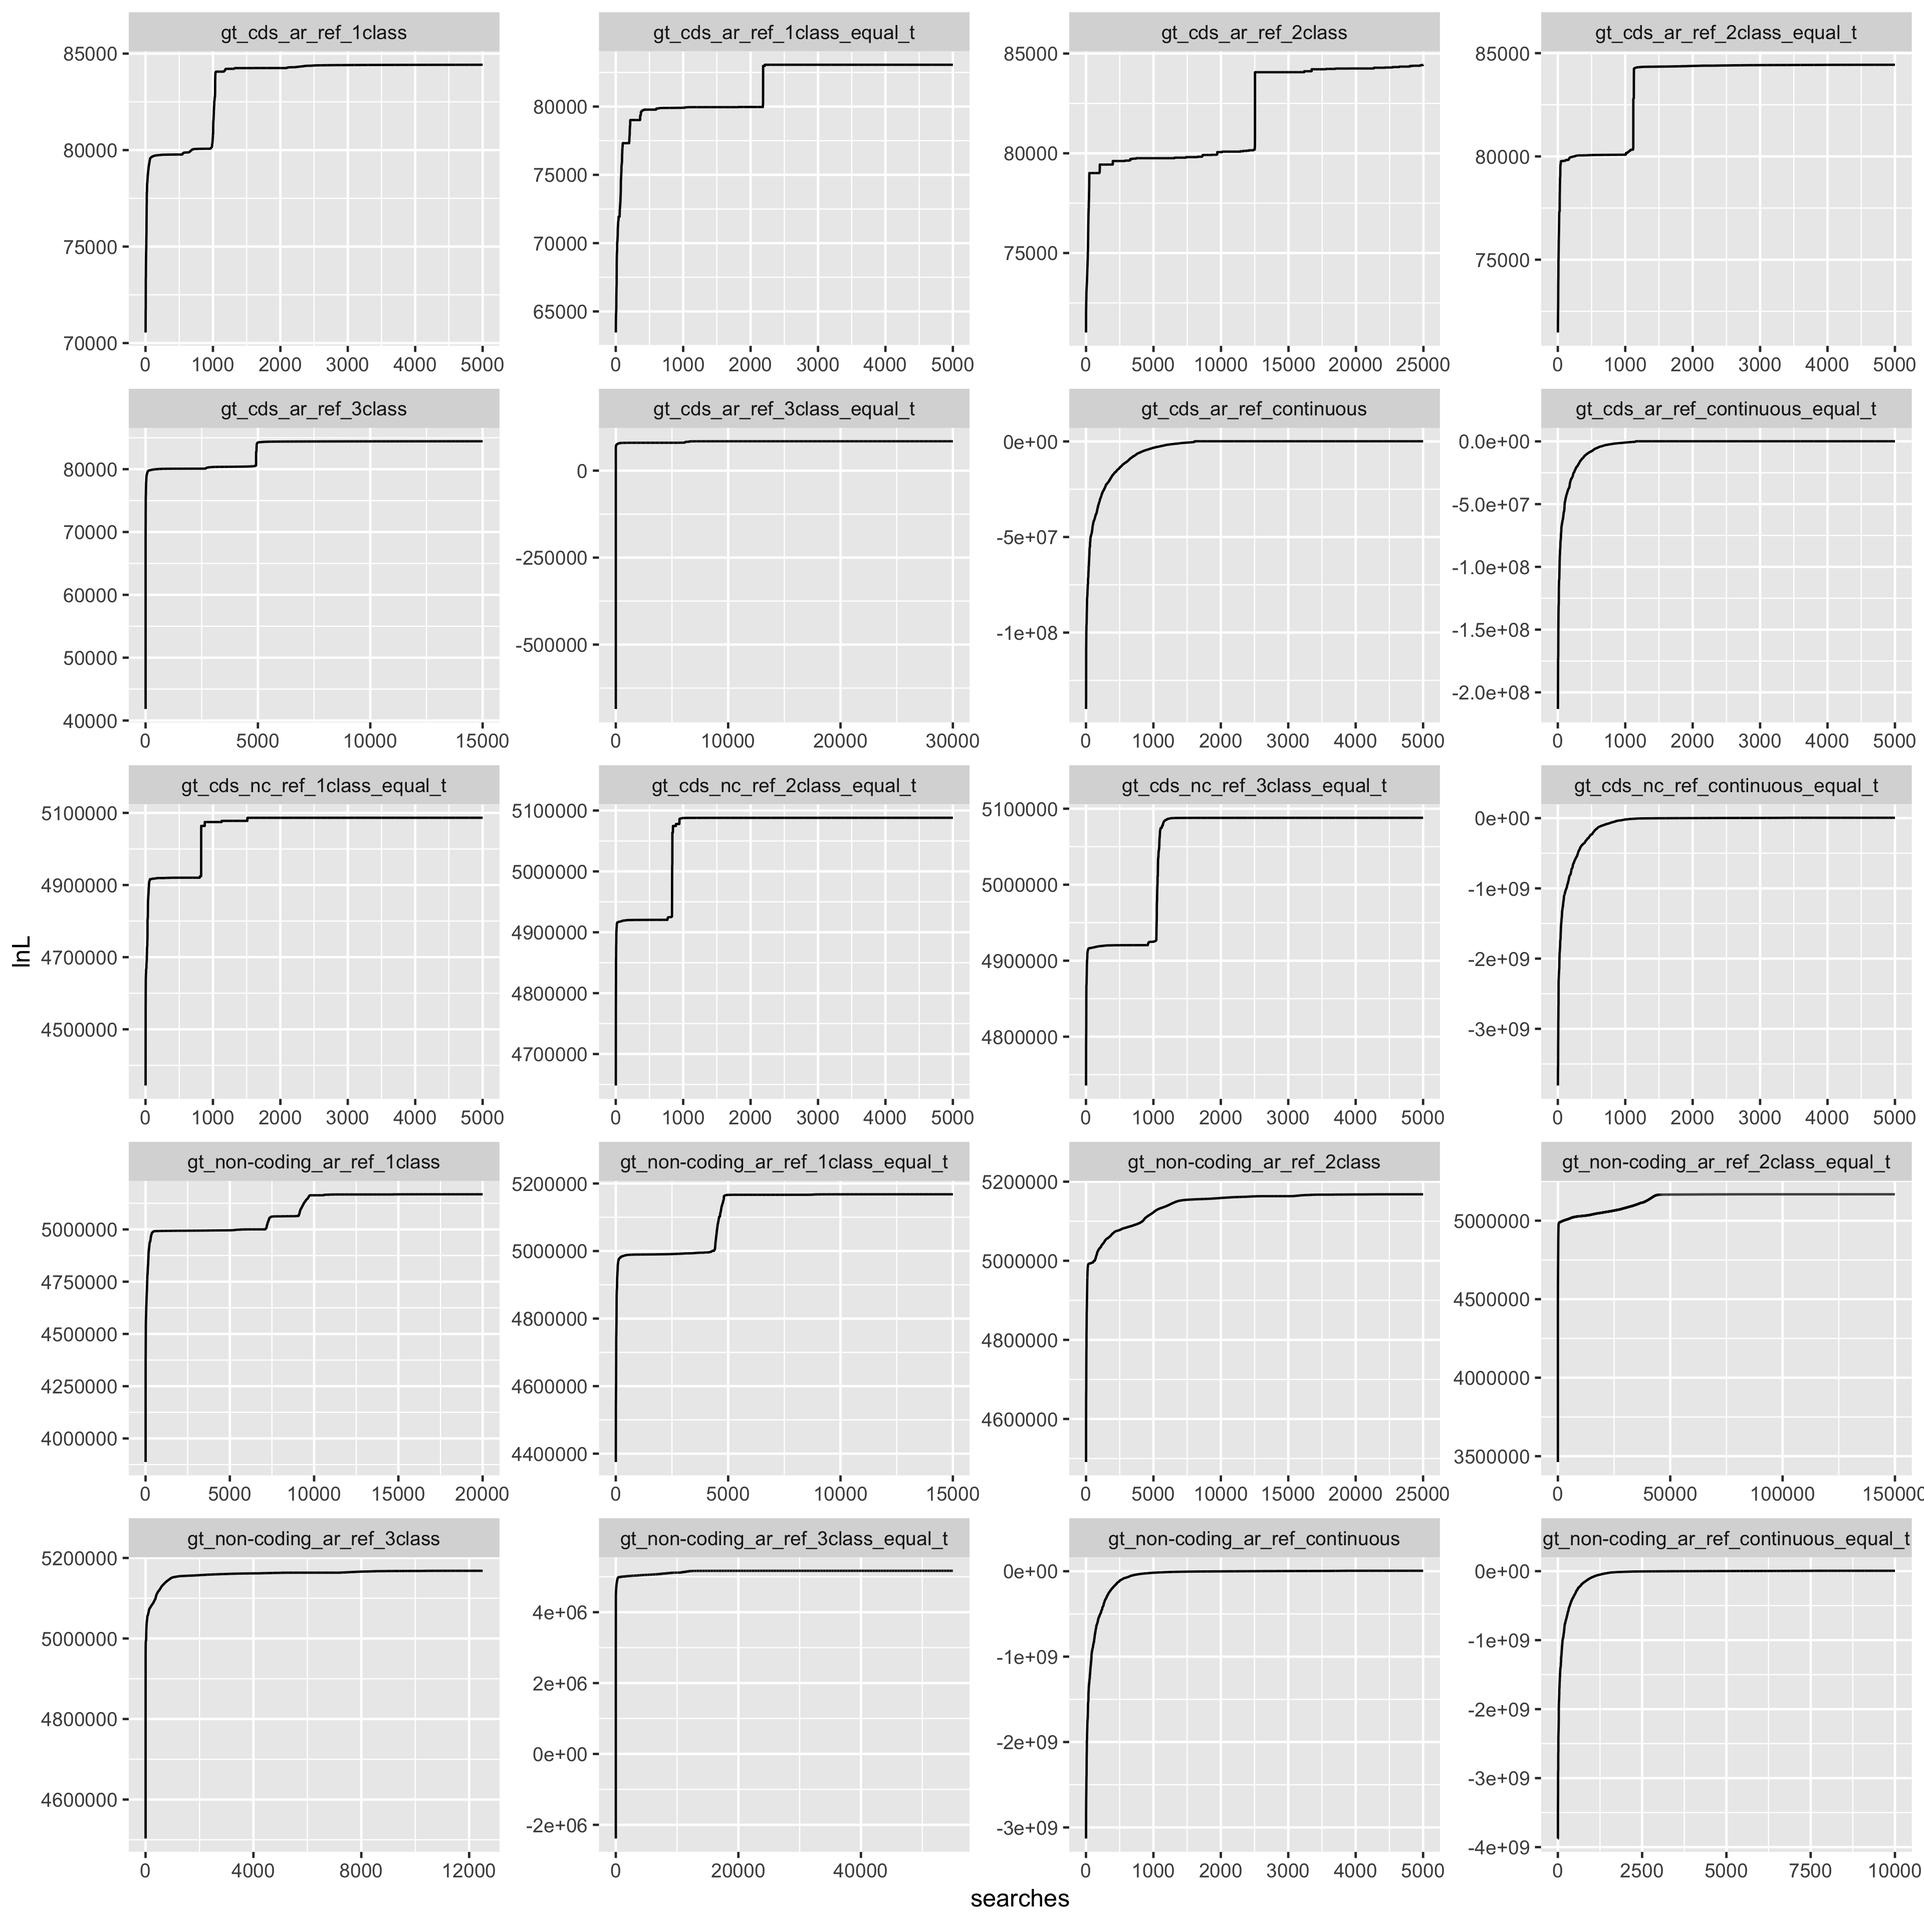
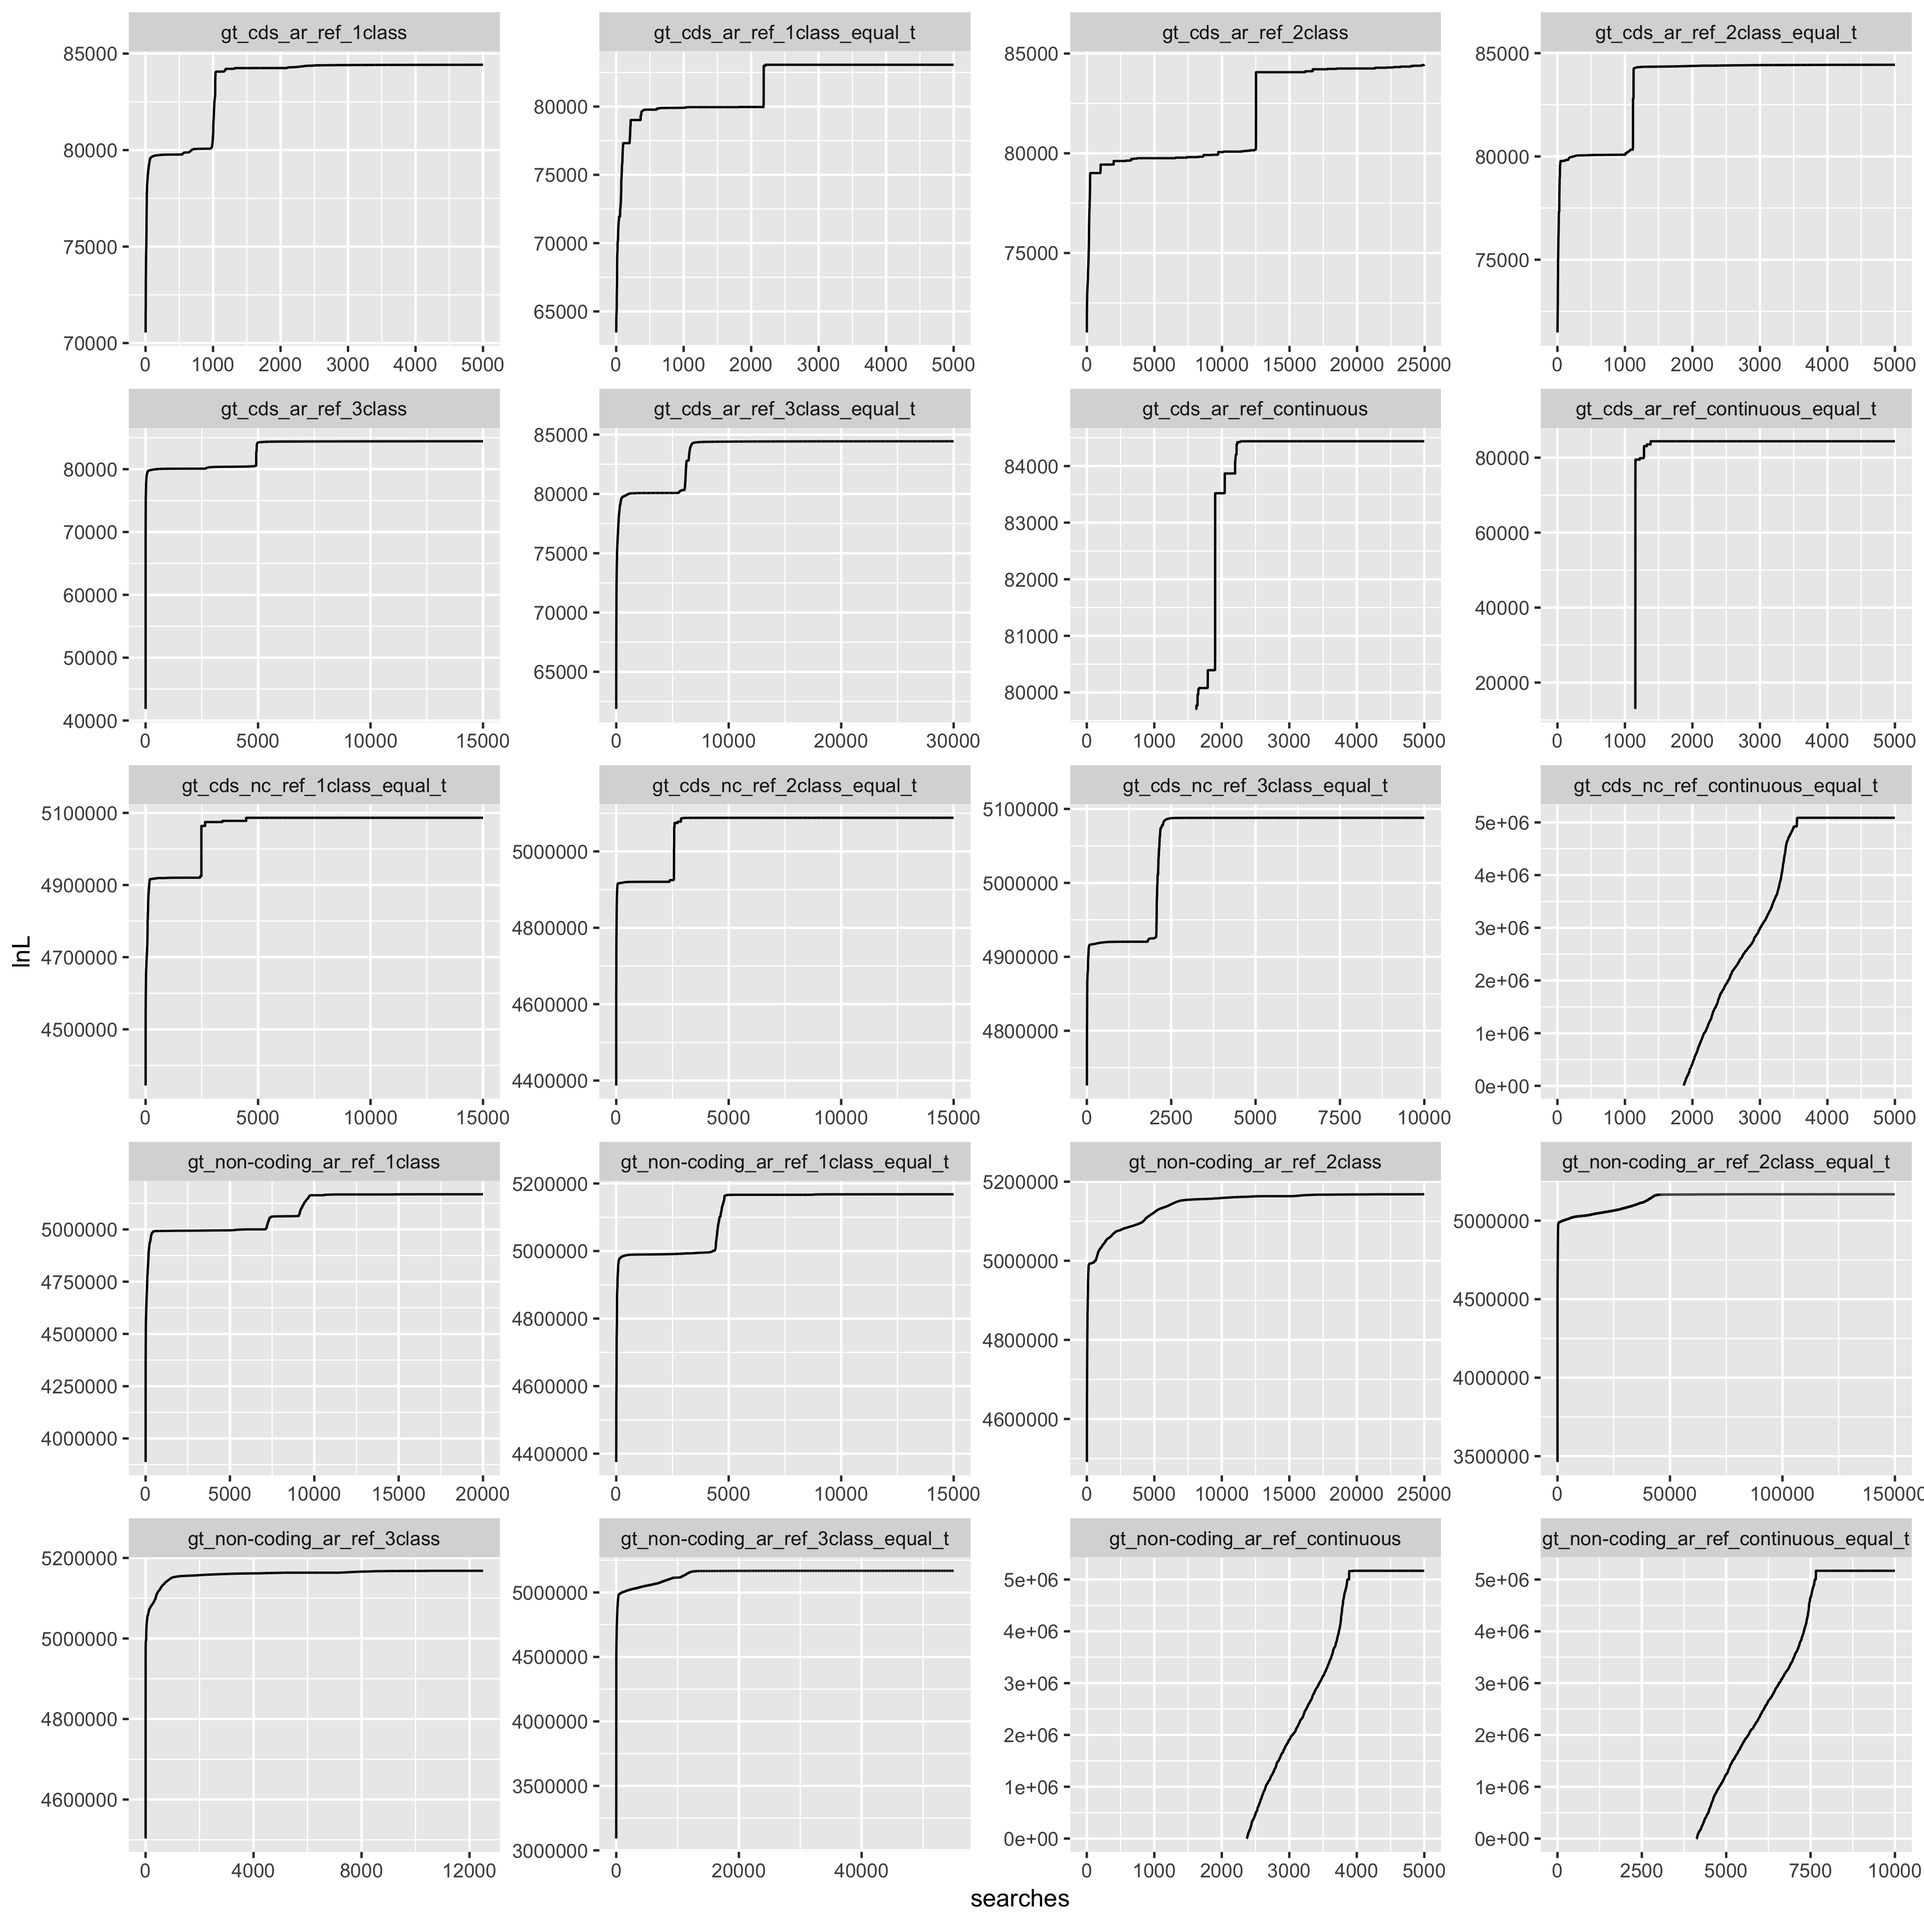
nc ref updates

diff --git a/anavar_analyses/README.md b/anavar_analyses/README.md
@@ -29,11 +29,19 @@ Results [here](gt_cds_v_ar_indels_equal_t.aic.csv).
  mkdir /fastdata/bop15hjb/h_j_b/GT_data/BGI_BWA_GATK/anavar_analysis/cds_vs_nc
 
 ~/parus_indel/anavar_analyses/sel_vs_neu_anavar.py -mode indel -vcf /fastdata/bop15hjb/h_j_b/GT_data/BGI_BWA_GATK/Analysis_ready_data/final/bgi_10birds.filtered_indels.pol.anno.recomb.line.vcf.gz -n 20 -call_txt ~/parus_indel/summary_analyses/bgi10_call.txt -c 1 -dfe discrete -out_pre /fastdata/bop15hjb/h_j_b/GT_data/BGI_BWA_GATK/anavar_analysis/cds_vs_nc/gt_cds_nc_ref_1class_equal_t -constraint equal_mutation_rate -n_search 25 -split 200 -alg NLOPT_LN_NELDERMEAD -nnoimp 100 -maximp 1000 -nc_ref -evolgen
+~/parus_indel/anavar_analyses/sel_vs_neu_anavar.py -mode indel -vcf /fastdata/bop15hjb/h_j_b/GT_data/BGI_BWA_GATK/Analysis_ready_data/final/bgi_10birds.filtered_indels.pol.anno.recomb.line.vcf.gz -n 20 -call_txt ~/parus_indel/summary_analyses/bgi10_call.txt -c 1 -dfe discrete -out_pre /fastdata/bop15hjb/h_j_b/GT_data/BGI_BWA_GATK/anavar_analysis/cds_vs_nc/gt_cds_nc_ref_1class_equal_t -constraint equal_mutation_rate -n_search 25 -split 200 -start_index 201 -alg NLOPT_LN_NELDERMEAD -nnoimp 100 -maximp 1000 -nc_ref -evolgen
+~/parus_indel/anavar_analyses/sel_vs_neu_anavar.py -mode indel -vcf /fastdata/bop15hjb/h_j_b/GT_data/BGI_BWA_GATK/Analysis_ready_data/final/bgi_10birds.filtered_indels.pol.anno.recomb.line.vcf.gz -n 20 -call_txt ~/parus_indel/summary_analyses/bgi10_call.txt -c 1 -dfe discrete -out_pre /fastdata/bop15hjb/h_j_b/GT_data/BGI_BWA_GATK/anavar_analysis/cds_vs_nc/gt_cds_nc_ref_1class_equal_t -constraint equal_mutation_rate -n_search 25 -split 200 -start_index 401 -alg NLOPT_LN_NELDERMEAD -nnoimp 100 -maximp 1000 -nc_ref
 ~/parus_indel/anavar_analyses/sel_vs_neu_anavar.py -mode indel -vcf /fastdata/bop15hjb/h_j_b/GT_data/BGI_BWA_GATK/Analysis_ready_data/final/bgi_10birds.filtered_indels.pol.anno.recomb.line.vcf.gz -n 20 -call_txt ~/parus_indel/summary_analyses/bgi10_call.txt -c 2 -dfe discrete -out_pre /fastdata/bop15hjb/h_j_b/GT_data/BGI_BWA_GATK/anavar_analysis/cds_vs_nc/gt_cds_nc_ref_2class_equal_t -constraint equal_mutation_rate -n_search 25 -split 200 -alg NLOPT_LN_NELDERMEAD -nnoimp 100 -maximp 1000 -nc_ref -evolgen
+~/parus_indel/anavar_analyses/sel_vs_neu_anavar.py -mode indel -vcf /fastdata/bop15hjb/h_j_b/GT_data/BGI_BWA_GATK/Analysis_ready_data/final/bgi_10birds.filtered_indels.pol.anno.recomb.line.vcf.gz -n 20 -call_txt ~/parus_indel/summary_analyses/bgi10_call.txt -c 2 -dfe discrete -out_pre /fastdata/bop15hjb/h_j_b/GT_data/BGI_BWA_GATK/anavar_analysis/cds_vs_nc/gt_cds_nc_ref_2class_equal_t -constraint equal_mutation_rate -n_search 25 -split 200 -start_index 201 -alg NLOPT_LN_NELDERMEAD -nnoimp 100 -maximp 1000 -nc_ref -evolgen
+~/parus_indel/anavar_analyses/sel_vs_neu_anavar.py -mode indel -vcf /fastdata/bop15hjb/h_j_b/GT_data/BGI_BWA_GATK/Analysis_ready_data/final/bgi_10birds.filtered_indels.pol.anno.recomb.line.vcf.gz -n 20 -call_txt ~/parus_indel/summary_analyses/bgi10_call.txt -c 2 -dfe discrete -out_pre /fastdata/bop15hjb/h_j_b/GT_data/BGI_BWA_GATK/anavar_analysis/cds_vs_nc/gt_cds_nc_ref_2class_equal_t -constraint equal_mutation_rate -n_search 25 -split 200 -start_index 401 -alg NLOPT_LN_NELDERMEAD -nnoimp 100 -maximp 1000 -nc_ref -evolgen
 ~/parus_indel/anavar_analyses/sel_vs_neu_anavar.py -mode indel -vcf /fastdata/bop15hjb/h_j_b/GT_data/BGI_BWA_GATK/Analysis_ready_data/final/bgi_10birds.filtered_indels.pol.anno.recomb.line.vcf.gz -n 20 -call_txt ~/parus_indel/summary_analyses/bgi10_call.txt -c 3 -dfe discrete -out_pre /fastdata/bop15hjb/h_j_b/GT_data/BGI_BWA_GATK/anavar_analysis/cds_vs_nc/gt_cds_nc_ref_3class_equal_t -constraint equal_mutation_rate -n_search 25 -split 200 -alg NLOPT_LN_NELDERMEAD -nnoimp 100 -maximp 1000 -nc_ref -evolgen
+~/parus_indel/anavar_analyses/sel_vs_neu_anavar.py -mode indel -vcf /fastdata/bop15hjb/h_j_b/GT_data/BGI_BWA_GATK/Analysis_ready_data/final/bgi_10birds.filtered_indels.pol.anno.recomb.line.vcf.gz -n 20 -call_txt ~/parus_indel/summary_analyses/bgi10_call.txt -c 3 -dfe discrete -out_pre /fastdata/bop15hjb/h_j_b/GT_data/BGI_BWA_GATK/anavar_analysis/cds_vs_nc/gt_cds_nc_ref_3class_equal_t -constraint equal_mutation_rate -n_search 25 -split 200 -start_index 201 -alg NLOPT_LN_NELDERMEAD -nnoimp 100 -maximp 1000 -nc_ref
 ~/parus_indel/anavar_analyses/sel_vs_neu_anavar.py -mode indel -vcf /fastdata/bop15hjb/h_j_b/GT_data/BGI_BWA_GATK/Analysis_ready_data/final/bgi_10birds.filtered_indels.pol.anno.recomb.line.vcf.gz -n 20 -call_txt ~/parus_indel/summary_analyses/bgi10_call.txt -c 1 -dfe continuous -degree 500 -out_pre /fastdata/bop15hjb/h_j_b/GT_data/BGI_BWA_GATK/anavar_analysis/cds_vs_nc/gt_cds_nc_ref_continuous_equal_t -constraint equal_mutation_rate -n_search 25 -split 200 -nc_ref
 
+ls /fastdata/bop15hjb/h_j_b/GT_data/BGI_BWA_GATK/anavar_analysis/cds_vs_nc/*merged* | ./process_anavar_results.py -neu_ref nc > gt_cds_v_nc_indels_equal_t.aic.csv
 ```
+
+Results [here](gt_cds_v_nc_indels_equal_t.aic.csv).
 
 ### CDS free theta models
 
@@ -101,7 +109,7 @@ Results [here](gt_non-coding_v_ar_indels_full.aic.csv).
 Convergence was visually checked:
 
 ```
-$ ls /fastdata/bop15hjb/GT_data/BGI_BWA_GATK/anavar_analysis/non-coding_vs_ar/*merged.results.txt /fastdata/bop15hjb/GT_data/BGI_BWA_GATK/anavar_analysis/cds_vs_ar/*merged.results.txt | python check_lnL.py > all_models_lnl.txt
+ls /fastdata/bop15hjb/h_j_b/GT_data/BGI_BWA_GATK/anavar_analysis/non-coding_vs_ar/*merged.results.txt /fastdata/bop15hjb/h_j_b/GT_data/BGI_BWA_GATK/anavar_analysis/cds_vs_ar/*merged.results.txt /fastdata/bop15hjb/h_j_b/GT_data/BGI_BWA_GATK/anavar_analysis/cds_vs_nc/*merged.results.txt | python check_lnL.py > all_models_lnl.txt
 $ Rscript lnl_landscape.R 
 ```
 
